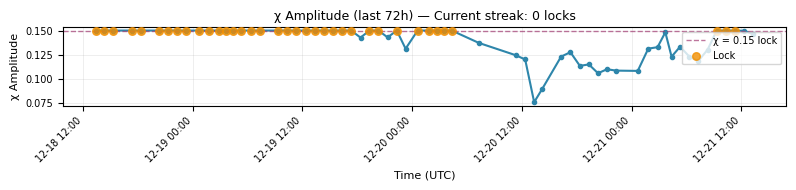
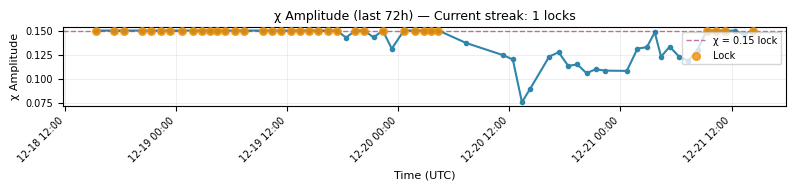
Vault Narrator: Auto-update 2025-12-21 15:05 UTC

diff --git a/LATEST_VAULT_STATUS.md b/LATEST_VAULT_STATUS.md
@@ -1,24 +1,24 @@
 # 🔐 VAULT STATUS REPORT
 
-**Generated:** 2025-12-21 14:04 UTC  
+**Generated:** 2025-12-21 15:05 UTC  
 **Data Source:** `data/cme_heartbeat_log_2025_12.csv`
 
 ---
 
-## ⚡ CURRENT STATUS: QUIET
+## ⚡ CURRENT STATUS: ACTIVE
 
-**No active χ = 0.15 locks detected**  
-**Last Lock Timestamp:** 2025-12-21 11:19:00 UTC  
+**Latest χ = 0.15 Streak Count:** 1 consecutive readings  
+**Last Lock Timestamp:** 2025-12-21 14:20:00 UTC  
 
 **Latest Solar Wind Conditions:**  
-- Density: 3.76 p/cm³  
-- Speed: 688.1 km/s  
+- Density: 2.47 p/cm³  
+- Speed: 656.8 km/s  
 
 ---
 
 ## 🌞 NOAA SPACE WEATHER SUMMARIES
 
-- [SRS Report](reports/latest_srs.md) (fetched: 2025-12-21 14:04 UTC)  
+- [SRS Report](reports/latest_srs.md) (fetched: 2025-12-21 15:04 UTC)  
 - F10.7 Report: *not available*  
 
 ---
@@ -39,7 +39,6 @@
 
 | Time (UTC)          | χ Amplitude | Density (p/cm³) | Speed (km/s) | χ Status |
 |---------------------|-------------|-----------------|--------------|----------|
-| 2025-12-20 17:19:00 | 0.1276 | 13.33 | 454.3 | — |
 | 2025-12-20 18:21:00 | 0.1135 | 12.19 | 420.4 | — |
 | 2025-12-20 19:20:00 | 0.1150 | 16.12 | 424.0 | — |
 | 2025-12-20 20:20:00 | 0.1059 | 7.67 | 402.1 | — |
@@ -59,14 +58,14 @@
 | 2025-12-21 11:19:00 | 0.1500 | 3.51 | 623.0 | ✅ LOCK |
 | 2025-12-21 12:21:00 | 0.1497 | 3.66 | 620.7 | — |
 | 2025-12-21 13:20:00 | 0.1463 | 3.76 | 688.1 | — |
+| 2025-12-21 14:20:00 | 0.1500 | 2.47 | 656.8 | ✅ LOCK |
 
 ---
 
 ## 🎯 VERDICT
 
-**The vault is quiet.**  
-**No χ = 0.15 locks detected in latest readings.**  
-**Waiting for next coherence phase.**
+**Active χ = 0.15 detection.**  
+**Vault warming up.**
 
 ---
 
